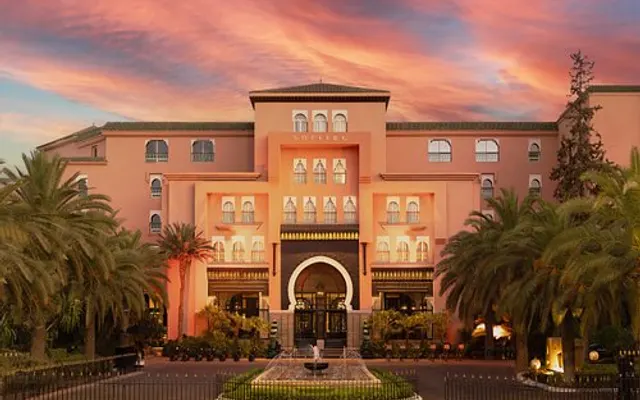
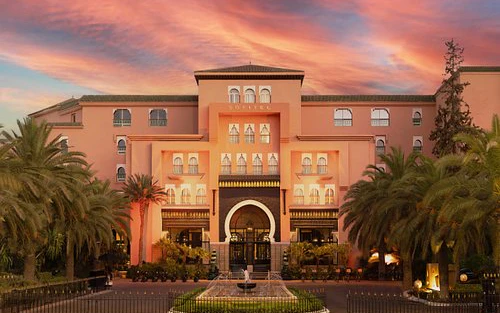
Hotel photos: never upscale, no sharpening, quality 90; small originals shown at native size; brand OG fallback for photos under 1000px

diff --git a/src/data/hotelLinks.ts b/src/data/hotelLinks.ts
@@ -67,9 +67,9 @@ export const HOTEL_IMAGES: Record<string, string> = {
 export const HOTEL_HERO: Record<string, { src: string; width: number; height: number }> = {
   yasmine: { src: '/images/hotels/riad-yasmine-marrakech-aeroport-menara-large.webp', width: 900, height: 506 },
   riadbe: { src: '/images/hotels/riad-be-marrakech-aeroport-menara-large.webp', width: 1024, height: 576 },
-  mamounia: { src: '/images/hotels/la-mamounia-marrakech-aeroport-menara-large.webp', width: 600, height: 338 },
+  mamounia: { src: '/images/hotels/la-mamounia-marrakech-aeroport-menara-large.webp', width: 600, height: 399 },
   mansour: { src: '/images/hotels/royal-mansour-marrakech-aeroport-menara-large.webp', width: 1200, height: 675 },
-  essaadi: { src: '/images/hotels/es-saadi-marrakech-aeroport-menara-large.webp', width: 618, height: 348 },
+  essaadi: { src: '/images/hotels/es-saadi-marrakech-aeroport-menara-large.webp', width: 618, height: 323 },
 };
 
 /** Fin du texte alternatif des photos d'hôtels, par langue (SEO image). */
